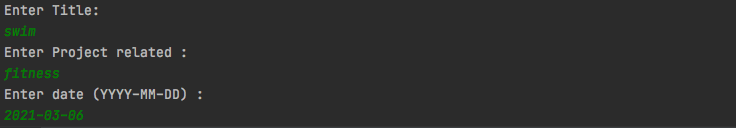
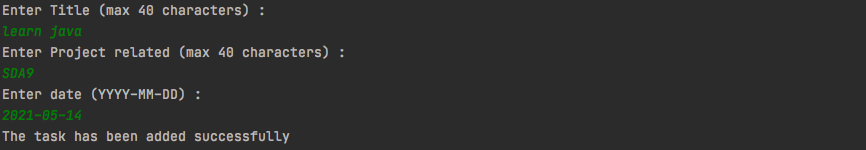
- security push

diff --git a/src/main/java/com/clecardona/menu/Menu.java b/src/main/java/com/clecardona/menu/Menu.java
@@ -16,7 +16,6 @@ public class Menu implements Serializable {
 
  ///////////////////fields
     private LinkedList<Task> listOfTasks;
-    private final Scanner scanner;
 
     /**
      * Constructor with no args
@@ -24,7 +23,6 @@ public class Menu implements Serializable {
     public Menu() {
 
         this.listOfTasks = new LinkedList<>();
-        this.scanner = new Scanner(System.in);
     }
 
     /**
@@ -33,7 +31,6 @@ public class Menu implements Serializable {
     public Menu(LinkedList<Task> list) {
 
         this.listOfTasks = list;
-        this.scanner = new Scanner(System.in);
     }
 
     ///////////////////methods
@@ -103,7 +100,7 @@ public class Menu implements Serializable {
 
 
         try {
-
+            Scanner scanner = new Scanner(System.in);
             int userChoice = scanner.nextInt();
 
             switch (userChoice) {
@@ -150,6 +147,7 @@ public class Menu implements Serializable {
         }
 
         try {
+            Scanner scanner = new Scanner(System.in);
             int userChoice = scanner.nextInt();
 
             switch (userChoice) {
@@ -245,13 +243,14 @@ public class Menu implements Serializable {
      */
     public String[] addNewTaskGatherer() {
 
+        Scanner scanner = new Scanner(System.in);
         String[] newData = new String[3];
 
-        System.out.println("Enter Title :  ");
+        System.out.println("Enter Title (max 40 characters) :  ");
         String title = scanner.nextLine();
         newData[0] = UserInputChecker.getValidString(title, "Title");
 
-        System.out.println("Enter Project related :  ");
+        System.out.println("Enter Project related (max 40 characters) :  ");
         String project = scanner.nextLine();
         newData[1] = UserInputChecker.getValidString(project, "Project");
 
@@ -298,6 +297,7 @@ public class Menu implements Serializable {
         System.out.println(" < (" + (index + 1) + ")  Back to MAIN menu ");
 
         try {
+            Scanner scanner = new Scanner(System.in);
             int indexSelected = scanner.nextInt() - 1;
 
             if (indexSelected == index) {
@@ -315,7 +315,6 @@ public class Menu implements Serializable {
                           < (4) Back to EDIT menu
                           < (5) Back to MAIN menu
                         """);
-
 
                 int actionSelected = scanner.nextInt();
                 switch (actionSelected) {
@@ -384,7 +383,7 @@ public class Menu implements Serializable {
      * @return an array with all the info , null if non modified
      */
     public String[] updateGatherer(int index) {
-
+        Scanner scanner = new Scanner(System.in);
         String[] newData = new String[3];
 
         updatePrintDisplaySentence(index,'t');
@@ -442,7 +441,7 @@ public class Menu implements Serializable {
             out.writeObject(listOfTasks);
             out.close();
             fileOut.close();
-            System.out.println("... saved as taskFile.txt");
+            System.out.println("... saved in taskFile.txt");
         } catch (IOException i) {
             i.printStackTrace();
         }
@@ -481,8 +480,7 @@ public class Menu implements Serializable {
      * exits the program
      */
     public void quit() {
-        scanner.close();
-        System.exit(0);
+    System.exit(0);
     }
 
 

diff --git a/src/main/java/com/clecardona/tools/UserInputChecker.java b/src/main/java/com/clecardona/tools/UserInputChecker.java
@@ -16,7 +16,7 @@ public class UserInputChecker {
     public static String getValidString(String str, String typeOfData) {
 
         while (!isAValidString(str)) {
-            System.out.println("Invalid. Please Enter a " + typeOfData + "( < 40 characters) : ");
+            System.out.println("Invalid. Please Enter a " + typeOfData + "(max 40 characters) : ");
             Scanner scanner = new Scanner(System.in);
             str = scanner.nextLine();
 

diff --git a/src/main/java/com/clecardona/tasks/Task.java b/src/main/java/com/clecardona/tasks/Task.java
@@ -50,7 +50,7 @@ public class Task extends Menu implements Serializable {
         this.project = project;
     }
 
-    public String getStatusString() {//todo return a boolean or manage it differently
+    public String getStatusString() {
         if (!isDone) {
             return "to do";
         }

diff --git a/src/test/java/com/clecardona/tools/UserInputCheckerTest.java b/src/test/java/com/clecardona/tools/UserInputCheckerTest.java
@@ -13,9 +13,6 @@ class UserInputCheckerTest {
 
     }
 
-    @Test
-    void getNonEmptyString() { //todo create test
-    }
 
     @Test
     void testIsAValidDateWithCorrectDatesEntered() {

diff --git a/README.md b/README.md
@@ -1,6 +1,6 @@
-# [ todolist ]
+# <img src="https://cdn.onlinewebfonts.com/svg/img_533261.png" alt="logo" width="50"/> [ todolist ]
 
-<img src="https://cdn.onlinewebfonts.com/svg/img_533261.png" alt="logo" width="70"/> 
+
 
 ## Table of contents
 
@@ -103,13 +103,17 @@ Steps to run the **[todolist]** app. After your IDE is open and files imported, 
 ***
 ![Main](img/main_menu.png)
 
-### Show tasks list menu
+### Show tasks list menu (sorting)
 
 ***
 ![show_tasks](img/show_task_menu.png)
 
-### Add new task menu
 
+#### Example of sorting by due date:
+![sorting](img/sorting_date.png)
+
+### Add a new task 
+#### Status will be set as "to do" 
 ***
 ![add_tasks](img/add_task_menu.png)
 
